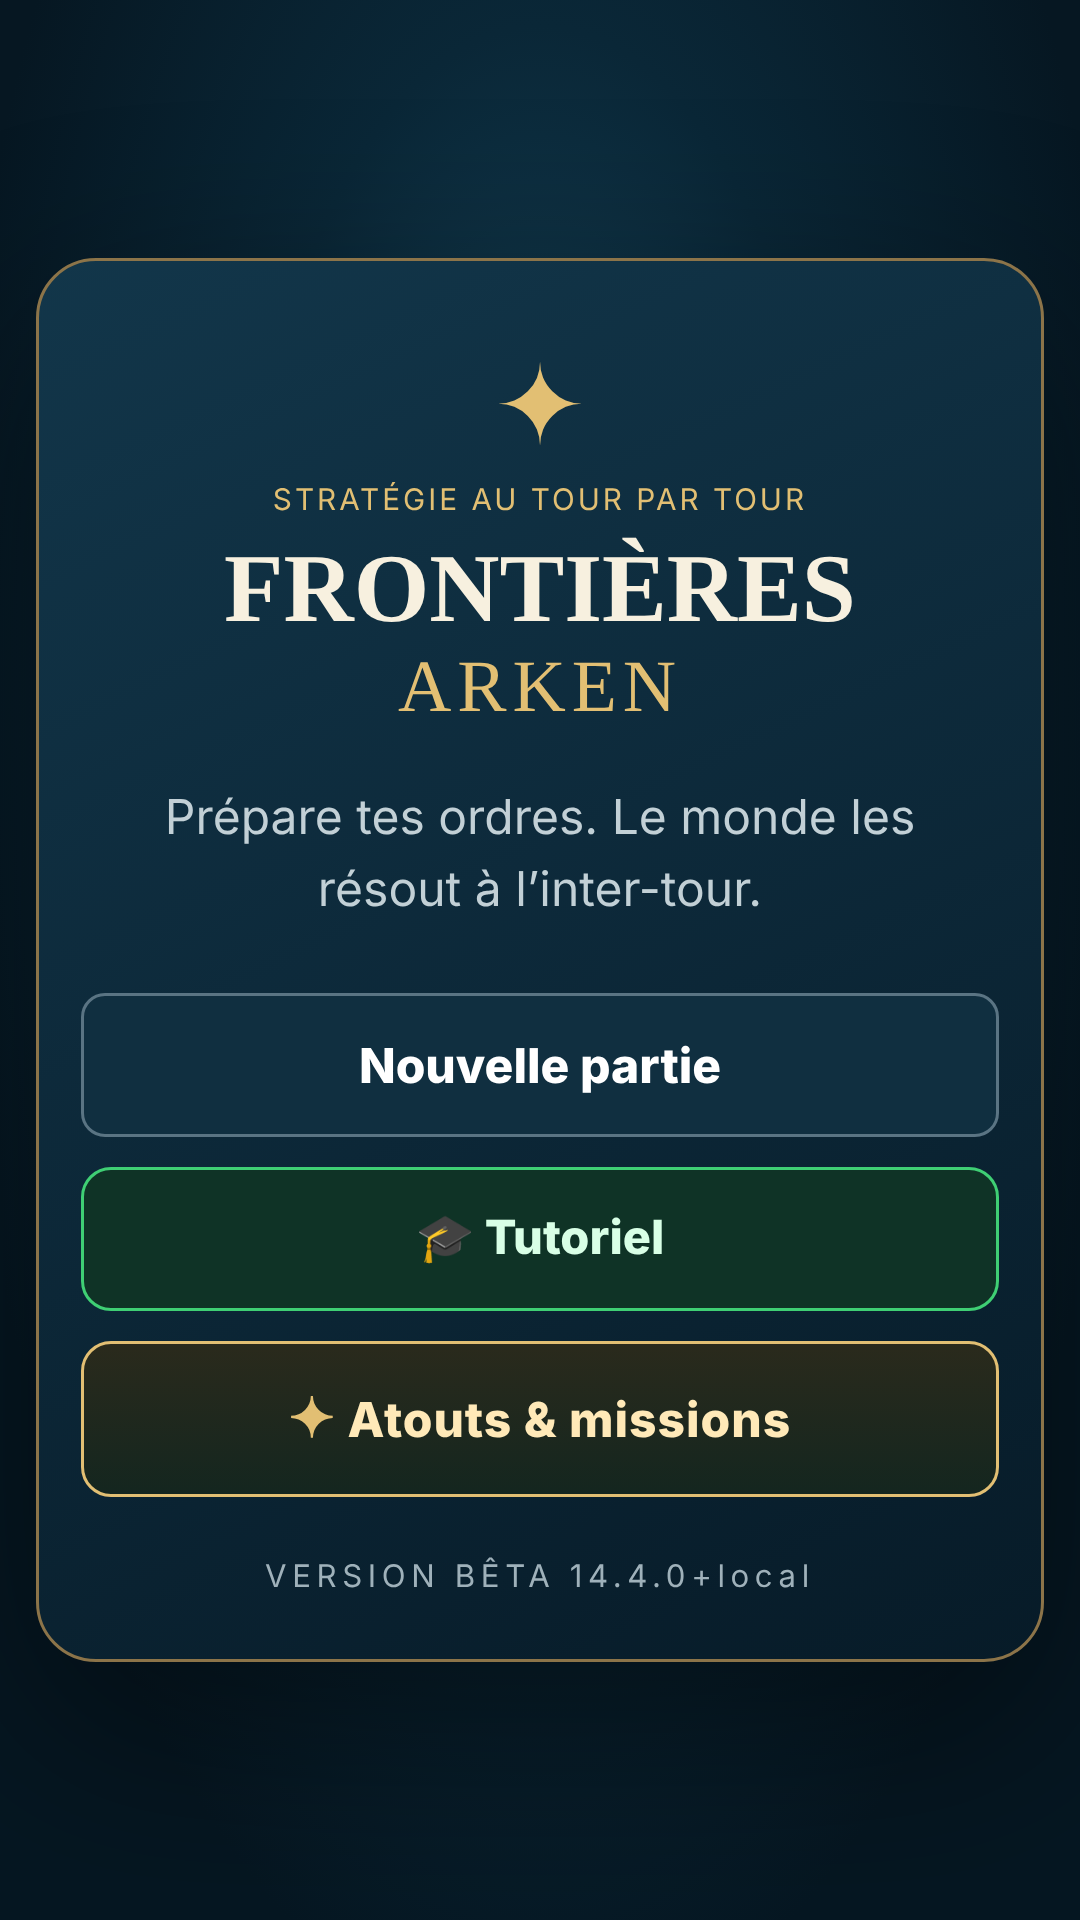
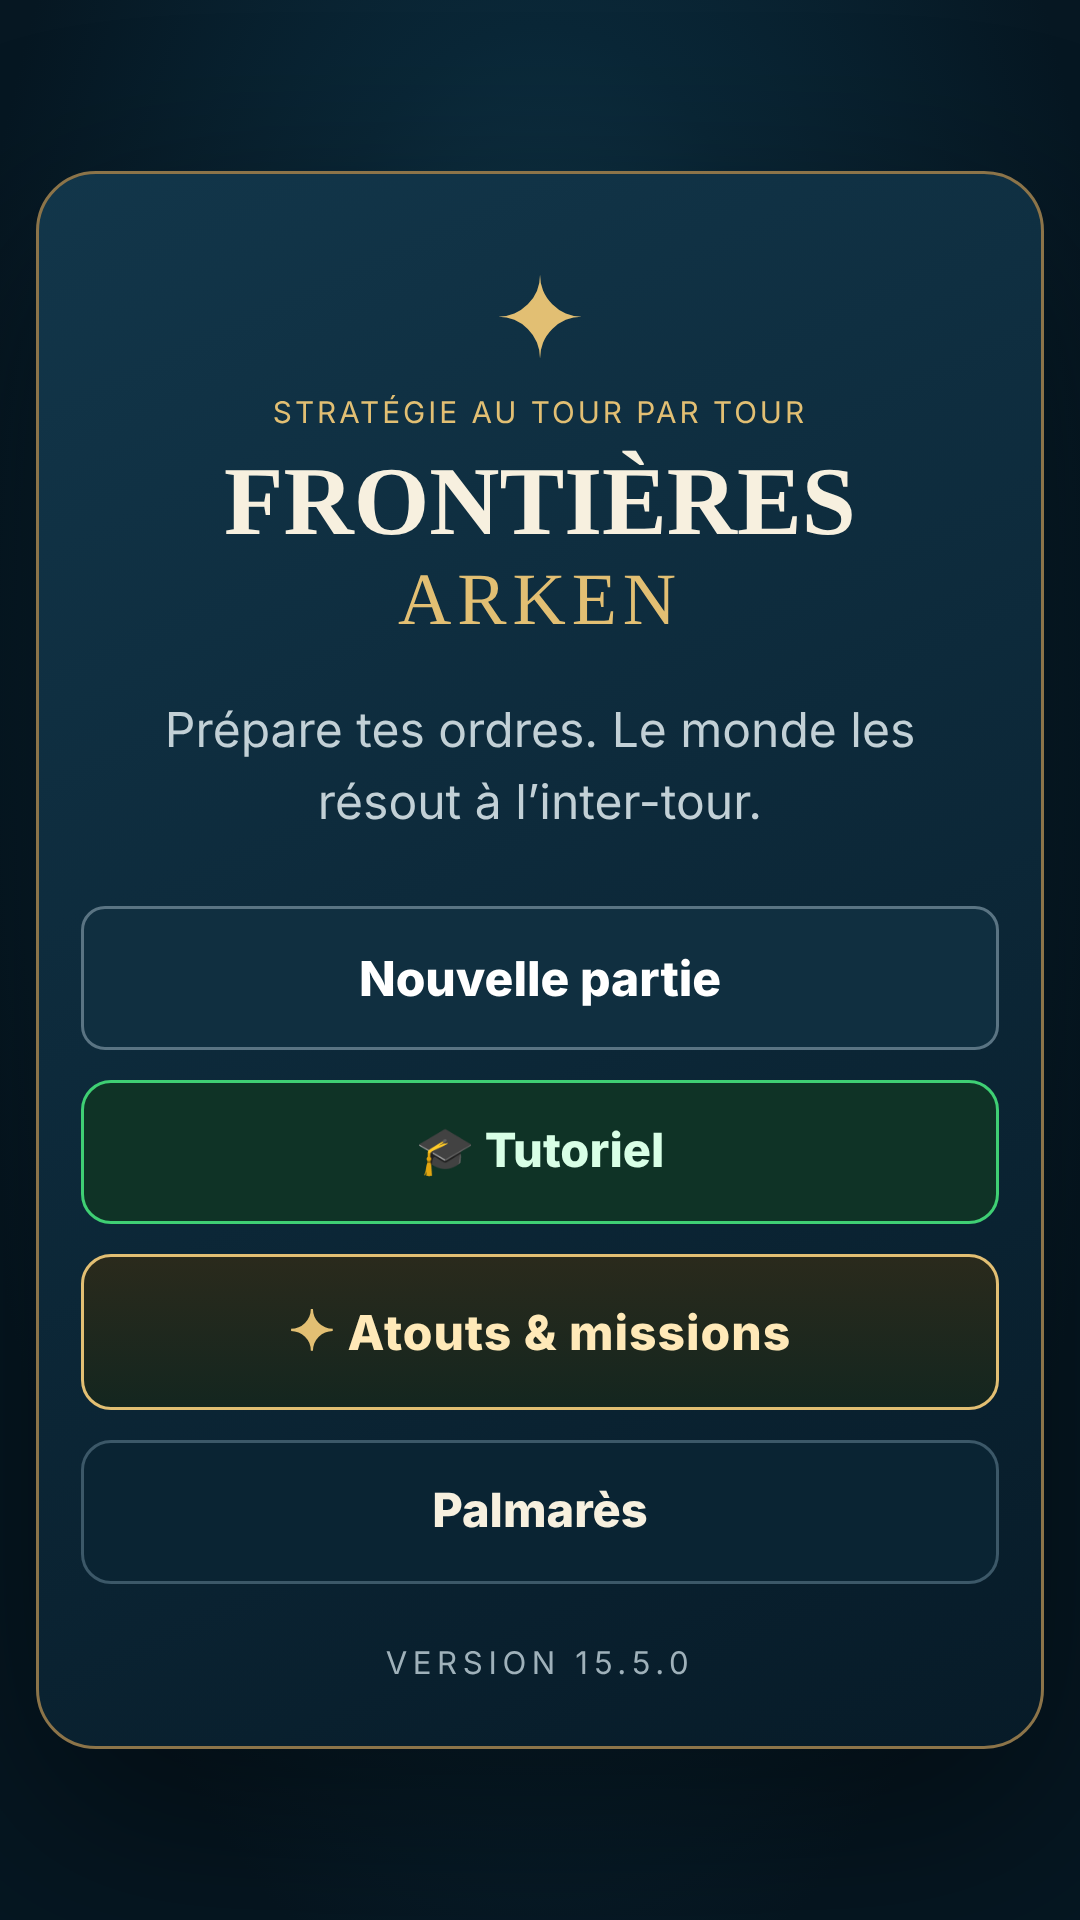
V15.5 : fiche Play à jour, visuels, accords, mention bêta retirée du build Play
Claude-Session: https://claude.ai/code/session_01R4W3AbD184XiYSYfpt6uMR

diff --git a/src/domain/story.js b/src/domain/story.js
@@ -12,6 +12,8 @@ import { ARCHETYPE_DESCRIPTIONS, ARCHETYPE_LABELS } from './leaders.js';
 
 export const STORY_BATTLES = 6;
 export const STORY_MARKS = 60;
+/** « 1 province », « 3 provinces » : accord du nom pour les phrases de l'écran de fin. */
+export const provincesText = n => `${n} province${Math.abs(n) > 1 ? 's' : ''}`;
 const countsOf = state => {
   const out = Object.fromEntries(Object.keys(state.nations || {}).map(id => [id, 0]));
   for (const p of Object.values(state.provinces || {})) if (p.ownerId in out) out[p.ownerId]++;
@@ -98,8 +100,8 @@ export function buildEndStory(state, map) {
     const near = marks.filter(m => Math.abs(m[0] - tp.turn) <= 2 && ['c', 'e', 't'].includes(m[1])).sort((a, b) => Math.abs(a[0] - tp.turn) - Math.abs(b[0] - tp.turn))[0];
     const cause = !near ? '' : near[1] === 'c' ? `${name(near[2])} venait de prendre la capitale de ${name(near[3])}.`
       : near[1] === 'e' ? `${name(near[2])} venait de disparaître de la carte.` : `${name(near[2])} venait de trahir ${name(near[3])}.`;
-    const head = tp.kind === 'lead' ? `${name(tp.nationId)} passe en tête pour de bon, avec ${tp.provinces} provinces.`
-      : tp.delta > 0 ? `${name(tp.nationId)} gagne ${tp.delta} provinces en 5 tours, et en tient ${tp.provinces}.` : `${name(tp.nationId)} perd ${-tp.delta} provinces en 5 tours, et n’en tient plus que ${tp.provinces}.`;
+    const head = tp.kind === 'lead' ? `${name(tp.nationId)} passe en tête pour de bon, avec ${provincesText(tp.provinces)}.`
+      : tp.delta > 0 ? `${name(tp.nationId)} gagne ${provincesText(tp.delta)} en 5 tours, et en tient ${tp.provinces}.` : `${name(tp.nationId)} perd ${provincesText(-tp.delta)} en 5 tours, et n’en tient plus que ${tp.provinces}.`;
     turning = { turn: tp.turn, text: [head, cause].filter(Boolean).join(' ') };
   }
   return {

diff --git a/tests/v15-5.test.js b/tests/v15-5.test.js
@@ -1,0 +1,31 @@
+import test from 'node:test';
+import assert from 'node:assert/strict';
+import { readFileSync, existsSync } from 'node:fs';
+import { provincesText } from '../src/domain/story.js';
+
+const read = p => readFileSync(new URL(`../${p}`, import.meta.url), 'utf8');
+
+test('V15.5 : « 1 province » au singulier, « 3 provinces » au pluriel', () => {
+  assert.equal(provincesText(1), '1 province');
+  assert.equal(provincesText(3), '3 provinces');
+  const story = read('src/domain/story.js');
+  assert.doesNotMatch(story, /\$\{-?tp\.(delta|provinces)\} provinces/);
+});
+
+test('V15.5 : « 1 navire » accordé dans les écrans de province et de vision', () => {
+  for (const f of ['src/presentation/ui/province-sheet.js', 'src/presentation/vision-view.js']) {
+    assert.doesNotMatch(read(f), /\$\{(e\.warships|order\.warships|ships|warships)\} navires/);
+  }
+});
+
+test('V15.5 : fiche Play à jour et visuels présents', () => {
+  for (const f of ['store/fiche-play-store.md', 'store/fiche-play-store-en.md']) assert.match(read(f), /40/);
+  assert.ok(existsSync(new URL('../store/icone-512.png', import.meta.url)));
+  assert.ok(existsSync(new URL('../store/banniere-1024x500.png', import.meta.url)));
+});
+
+test('V15.5 : le build Google Play retire la mention bêta de l\'accueil', () => {
+  const build = read('scripts/build.js');
+  assert.match(build, /isPlayBuild\(process\.env\)\) \{[\s\S]*VERSION BÊTA/);
+  assert.match(read('index.html'), /VERSION BÊTA /);
+});

diff --git a/src/presentation/coalition-view.js b/src/presentation/coalition-view.js
@@ -34,7 +34,7 @@ export function coalitionPopups(events, state, nation) {
     if (e.type === 'coalition-formed') out.push({ kind: mine ? 'against' : 'other', kicker: 'COALITION', title: mine ? 'Arken se ligue contre vous' : `Arken se ligue contre ${nation(e.nationId)}`,
       lead: `${list((e.members || []).map(nation))} ${verb((e.members || []).length, 'se dresse', 'se dressent')} contre ${mine ? 'vous' : nation(e.nationId)}.`, text: coalitionRule(mine, nation(e.nationId)) });
     if (e.type === 'coalition-dissolved') out.push({ kind: 'ended', kicker: 'COALITION', title: 'La coalition est dissoute',
-      lead: e.reason === 'eliminated' ? `${nation(e.nationId)} a disparu de la carte.` : e.reason === 'deserted' ? `Plus personne ne fait front contre ${mine ? 'vous' : nation(e.nationId)}.` : `${mine ? 'Vous ne tenez' : `${nation(e.nationId)} ne tient`} plus que ${e.provinces} provinces.`, text: 'Les guerres déjà ouvertes ne s’arrêtent pas d’elles-mêmes.' });
+      lead: e.reason === 'eliminated' ? `${nation(e.nationId)} a disparu de la carte.` : e.reason === 'deserted' ? `Plus personne ne fait front contre ${mine ? 'vous' : nation(e.nationId)}.` : `${mine ? 'Vous ne tenez' : `${nation(e.nationId)} ne tient`} plus que ${e.provinces} province${e.provinces>1?'s':''}.`, text: 'Les guerres déjà ouvertes ne s’arrêtent pas d’elles-mêmes.' });
   }
   return out;
 }

diff --git a/scripts/build.js b/scripts/build.js
@@ -37,6 +37,13 @@ for (const file of ['index.html', 'sw.js']) {
 // production est demandée avec un identifiant AdMob manquant ou de test. PWA et APK de bêta : bloc inchangé (tout à false).
 const configFile = join(out, 'src', 'presentation', 'play-config.js');
 writeFileSync(configFile, injectPlayConfig(readFileSync(configFile, 'utf8'), playConfig));
+// V15.5 : le joueur Google Play ne voit pas la mention « bêta » sur l'accueil (PWA et APK de bêta : inchangés).
+if (isPlayBuild(process.env)) {
+  const indexPath = join(out, 'index.html');
+  const html = readFileSync(indexPath, 'utf8');
+  if (!html.includes('VERSION BÊTA ')) throw new Error('index.html ne contient pas la mention VERSION BÊTA');
+  writeFileSync(indexPath, html.replace('VERSION BÊTA ', 'VERSION '));
+}
 if (isPlayBuild(process.env)) console.log(`Build Google Play : publicités ${playConfig.testing ? 'TEST' : 'PRODUCTION'}, achats Play Billing actifs`);
 writeFileSync(join(out, '.nojekyll'), '');
 writeFileSync(join(out, 'version.txt'), `${version}\n`);

diff --git a/src/presentation/vision-view.js b/src/presentation/vision-view.js
@@ -31,7 +31,7 @@ export function provinceTroopView(state, map, provinceId, nationId = state.playe
   const allies = [...new Set(guests.map(e => e.nationId))];
   return { known: true, entrenched: false, visible: true, empty, wounded: regiment.wounded, text: empty ? 'Régiment : aucune troupe' : regimentText(regiment), composition, note: '',
     guests: allies, guestNote: allies.length ? `Dont renforts alliés stationnés : ${guests.map(e => `${Object.entries(e.units || {}
-      ).filter(([, n]) => n > 0).map(([k, n]) => `${n} ${SHORT[k]?.[n > 1 ? 1 : 0] || k}`).concat(e.warships ? [`${e.warships} navires`] : []).join(' · ')}`).join(' ; ')}` : '' };
+      ).filter(([, n]) => n > 0).map(([k, n]) => `${n} ${SHORT[k]?.[n > 1 ? 1 : 0] || k}`).concat(e.warships ? [`${e.warships} navire${e.warships>1?'s':''}`] : []).join(' · ')}`).join(' ; ')}` : '' };
 }
 
 /** Ensemble des provinces dont le joueur voit les troupes (pour les icônes de la carte). */

diff --git a/tests/v15-2.test.js b/tests/v15-2.test.js
@@ -164,7 +164,7 @@ test('fichiers : nouveaux modules dans ASSETS, aucun fichier audio', () => {
   const sw = readFileSync(join(root, 'sw.js'), 'utf8');
   for (const f of ['src/presentation/turn-animation.js', 'src/presentation/sound-engine.js', 'src/presentation/ui/turn-anim.js']) assert.ok(sw.includes(`'./${f}'`), f);
   assert.doesNotMatch(sw, /\.(mp3|ogg|wav|m4a)/);
-  assert.equal(JSON.parse(readFileSync(join(root, 'package.json'), 'utf8')).version, '15.4.0');
+  assert.equal(JSON.parse(readFileSync(join(root, 'package.json'), 'utf8')).version, '15.5.0');
 });
 
 // --- Moteur de sons, avec un faux Web Audio ---------------------------------------------------------------------------

diff --git a/tests/v15-4.test.js b/tests/v15-4.test.js
@@ -275,7 +275,7 @@ test('V15.4 : modules purs : ni DOM, ni hasard, ni date ; présents hors ligne ;
     assert.ok(sw.includes(`'./${f}'`), f);
   }
   assert.ok(sw.includes("'./src/presentation/palmares-view.js'"));
-  assert.equal(JSON.parse(readFileSync(join(root, 'package.json'), 'utf8')).version, '15.4.0');
+  assert.equal(JSON.parse(readFileSync(join(root, 'package.json'), 'utf8')).version, '15.5.0');
 });
 test('V15.4 : checkGameOver : ancienne partie à 80 au-delà du tour 40 non finie ; partie courte au tour 40 finie', () => {
   const l = game(); l.turn = 40; assert.equal(checkGameOver(l), null);

diff --git a/tests/v14-3-tutoriel.test.js b/tests/v14-3-tutoriel.test.js
@@ -225,5 +225,5 @@ test('tutoriel : surlignage et bulle — la cible visible la plus précise, la b
 });
 
 test('version 14.3.0 ou suivante (V15.4 : 15.4.0)', () => {
-  assert.equal(JSON.parse(read('package.json')).version, '15.4.0');
+  assert.equal(JSON.parse(read('package.json')).version, '15.5.0');
 });

diff --git a/docs/SORTIE-ARKEN.md b/docs/SORTIE-ARKEN.md
@@ -3,6 +3,14 @@
 Pour Jack, depuis le téléphone. Écrit le 31/10/2026 (V14.4). Les étapes sont dans l'ordre : ne saute pas d'étape.
 Si un écran ne ressemble pas à ce qui est décrit, **fais une capture d'écran** et envoie-la à Claude (ou à ChatGPT avec le bloc à la fin de ce document). Google change souvent ses menus.
 
+## État réel au 04/11/2026 (V15.5)
+
+- **Blocage n°1, côté Jack :** aucun AAB n'a encore été fabriqué. Le workflow « AAB Google Play » se termine en vert mais saute toutes ses étapes, faute de clé d'importation. Il faut ranger les 4 secrets `PLAY_UPLOAD_*` (Étape 1). La fabrication repart ensuite à la prochaine fusion dans `main` ou en lançant le workflow à la main.
+- **Prêts dans `store/` :** icône 512, bannière 1024×500, 6 captures, fiches française et anglaise. La fiche mentionne le mode 40 tours.
+- **Rentabilité :** recalculée pour la V15.5 (`docs/RENTABILITE-ARKEN.md`).
+- **Nouveau côté Google (annonce du 29/10/2026) :** la Play Console demande de déclarer le statut de professionnel (« trader ») à partir de novembre 2026.
+- **Pas encore vérifié :** vrai téléphone, vraie pub, ressenti du mode 40 tours. Faiblesses connues à juger en bêta : Valmorne et Oroël gagnent moins de 10 % des parties de 40 tours en simulation.
+
 ## 1. Ce qui est prêt (fait par Claude)
 
 - **Publicités (AdMob), dans la version Google Play seulement.** Une pub au début d'une nouvelle partie, une pub facultative pour la mission « publicité ».
@@ -11,7 +19,7 @@ Si un écran ne ressemble pas à ce qui est décrit, **fais une capture d'écran
 - **Achats (Google Play Billing), dans la version Google Play seulement.** Quatre produits (voir plus bas). Les jetons ne sont crédités qu'après la confirmation de Google, sauvegardés, puis seulement alors l'achat est « consommé ». Si l'appli est fermée en plein achat, le jeu récupère l'achat au lancement suivant : un joueur ne perd jamais ses jetons. Un paiement « en attente » ne donne rien tant que Google ne l'a pas validé. On ne peut jamais acheter d'or ni de troupes.
 - **La PWA et l'APK de bêta ne changent pas** : aucune vraie pub, aucun achat, aucun plugin Google dedans.
 - **Identifiants de TEST Google** utilisés tant que tu n'as pas fourni les vrais. Le résumé du travail GitHub « AAB Google Play » affiche « Publicités : TEST » ou « Publicités : PRODUCTION ». Si on demande la production avec un identifiant manquant ou de test, le build **échoue exprès** (pour ne jamais publier de fausses pubs).
-- **Fiche Play Store** dans le dossier `store/` : textes français et anglais, classification, sécurité des données. L'icône 512, la bannière et les captures sont préparées par le chef de projet.
+- **Fiche Play Store** dans le dossier `store/` : textes français et anglais, classification, sécurité des données. L'icône 512 (`store/icone-512.png`), la bannière (`store/banniere-1024x500.png`) et les captures (`store/captures/`) sont dans le même dossier.
 - **Politique de confidentialité** : https://scuillerjack-oss.github.io/Jsgames/politique-de-confidentialite-arken.html (publiée par le chef de projet sur le site du studio).
 
 ### Les 4 produits intégrés (identifiants à recopier EXACTEMENT)

diff --git a/docs/V15-cahier-des-charges.md b/docs/V15-cahier-des-charges.md
@@ -303,3 +303,12 @@ Victoires : bon sens net. Éliminations : Difficile ne dépasse pas Normal pour 
 
 **Vérification** : `npm test` vert, 607 tests. Chrome mobile simulé (Playwright, 390 × 844 tactile), sur le commit donné dans le compte rendu : partie courte choisie à l'écran, 6 vrais tours, reprise au tour 35 et 40 par sauvegarde préparée, alerte, écran de fin au tour 40, palmarès à 1, non doublé après rechargement ni écran rouvert, titres visibles (captures regardées) ; 80 tours affichés comme tels, sans fin au tour 41, sauvegarde en schéma 11 ; sauvegarde schéma 10 reprise ; partie finie sans graine non comptée ; profil sans palmarès, jetons gardés ; tutoriel qui démarre, non compté. 0 erreur JavaScript, 0 débordement.
 - **Non vérifié** : une partie courte réellement jouée à la main du tour 8 au tour 34 ; un vrai téléphone ; le ressenti du mode ; la vraie pub (simulée) ; la relecture par un sous-agent indépendant et les workflows GitHub, restent à faire avant fusion.
+
+### V15.5 — préparation de la fiche Play (04/11/2026)
+
+Hors liste des 7 ajouts : corrections demandées par Jack (« avancer tout ce qui est avançable »), sans changement de règle du jeu.
+- Accords corrigés : « 1 province » sur l'écran de fin et la coalition, « 1 navire » sur les écrans de province et de vision.
+- Fiches française et anglaise à jour (40 ou 80 tours, difficulté, bonus de nation, palmarès, titres).
+- `store/icone-512.png` et `store/banniere-1024x500.png` ajoutées, captures d'accueil et de nouvelle partie refaites.
+- Le build Google Play n'affiche plus « VERSION BÊTA » sur l'accueil ; la PWA et l'APK de bêta le gardent.
+- Rentabilité et `docs/SORTIE-ARKEN.md` mises à jour avec l'état réel.

diff --git a/store/fiche-play-store.md b/store/fiche-play-store.md
@@ -2,7 +2,7 @@
 
 Les lignes juste sous les commentaires `<!-- ... -->` sont à copier telles quelles dans la Play Console
 (Croissance > Présence sur le Play Store > Fiche principale). Les longueurs sont vérifiées par `npm test`.
-Captures (1080x1920), icône 512 et bannière 1024x500 : générées par le chef de projet, hors de ce fichier.
+Captures (1080x1920), icône 512 et bannière 1024x500 : dans ce dossier `store/`.
 
 ## Nom de l'application (30 caractères max)
 <!-- titre -->
@@ -19,7 +19,8 @@ FRONTIÈRES: ARKEN est un jeu de stratégie au tour par tour pour téléphone. C
 UNE PARTIE, DES CHOIX
 • Choisis ta nation parmi cinq : le Royaume de Valmorne, la Confédération de Roc-Épine, l'Empire de Noireflamme, la Ligue d'Oroël et l'Alliance de Solmara
 • Les ordres de tous les dirigeants sont joués en même temps à chaque tour
-• Une partie dure au maximum 80 tours : tu avances à ton rythme et tu peux reprendre ta partie où tu l'as laissée
+• Une partie longue de 80 tours ou une partie courte de 40 tours : tu avances à ton rythme et tu reprends où tu t'es arrêté
+• Plusieurs niveaux de difficulté, un bonus propre à chaque nation, un palmarès et des titres à débloquer
 • Aucune course contre la montre : le jeu attend que tu aies fini de réfléchir
 
 ARMÉES, MER ET FORTERESSES
